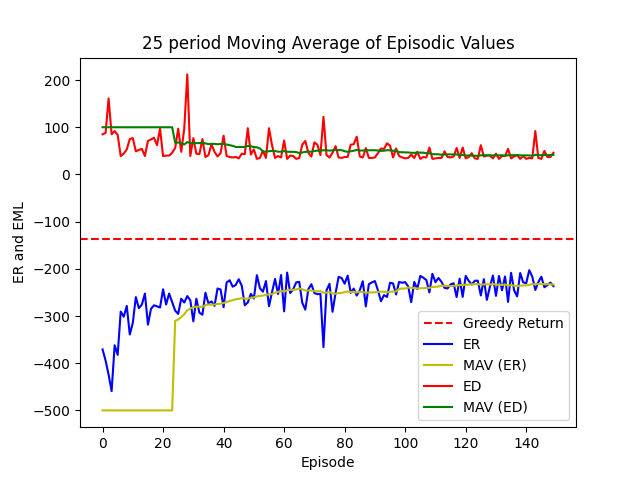
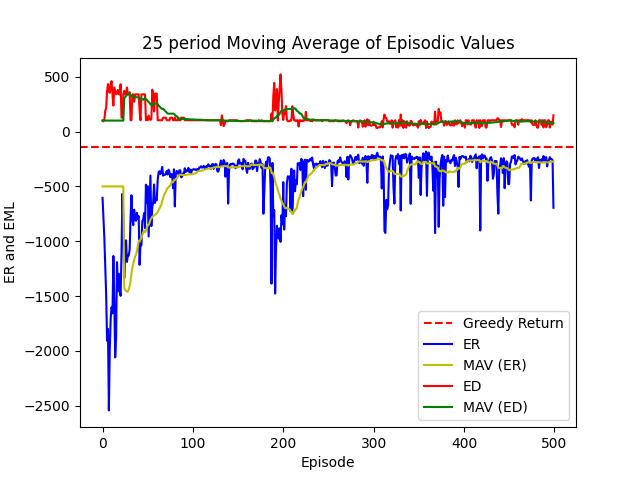
pausing decentralisation idea

diff --git a/onennrl.py b/onennrl.py
@@ -6,11 +6,13 @@ class DQN(nn.Module):
 
         self.fc1 = nn.Linear(in_features = INPUTS, out_features = FC1)
         self.fc2 = nn.Linear(in_features = FC1, out_features = FC2)
-        self.out = nn.Linear(in_features = FC2, out_features = OUTPUTS)
+        self.fc3 = nn.Linear(in_features = FC2, out_features = FC3)
+        self.out = nn.Linear(in_features = FC3, out_features = OUTPUTS)
 
     def forward(self, t):
         t = F.relu(self.fc1(t))
         t = F.relu(self.fc2(t))
+        t = F.relu(self.fc3(t))
         t = self.out(t)
         return t
 
@@ -275,23 +277,28 @@ class SumoManager():
             self.action = str(joint_action[tl].item())
             self.set_tl_state(tl)
             tl_record[tl] = self.action
-        self.get_state(elapsed_state = True) 
         self.action_record.append((self._step, tl_record))
+        self.get_state(elapsed_state = True) 
         for tl in joint_action:
             reward = self.compute_reward(tl)
             joint_reward[tl] = torch.tensor([reward], device = self.device)
         return joint_reward
 
     def compute_reward(self, tl):
-        n = int(tl[-1])
-        p = self.state[(n - 1)*self.tms:n*self.tms]
+        reward = 0
+        for Tl in self.TLIds:
+            n = int(Tl[-1])
+            p = self.state[(n - 1)*self.tms:n*self.tms]
+            if Tl == tl:
+                r = -0.3333*(abs(sum(p)))
+                reward += r
+            else:
+                r = -0.3333*(abs(sum(p)))
+                reward += r
+        return reward
         # wt = self.state[self.tms:]
         # wt = self.maxp*torch.tanh((wt/(self.maxwt/2) - 1))
-        if self._step < TRIGGER_WAITING_STEP:
-            return -1*(abs(sum(p)))
-        else:
-            return -1*(abs(sum(p))) - (TRIGGER_WAITING_STEP/10)
-        
+
     def parse_state_info(self):
         state_info = SumoTrafficState.get()
         pNwt_cat = []
@@ -372,7 +379,9 @@ if __name__ == "__main__":
     episodic_losses = []
     max_return = float("-Inf")
     min_loss = float("Inf")
+    all_time_low = False
     pm.print_time()
+
     for episode in range(NUM_EPISODES):
         print("EPISODE: ", episode)
         sm.reset()
@@ -406,7 +415,8 @@ if __name__ == "__main__":
                         max_return = return_val
                     if agent_step < min_loss:
                         pm.write_record(GRAPH_NAME + "_min_loss", sm.action_record)
-                        min_return = agent_step
+                        min_loss = agent_step
+                        all_time_low = True
                     print(f"RETURN for EPISODE {episode}:", return_val)
                     print(f"LOSS for EPISODE {episode}:", agent_step)
                     episode_returns.append(return_val)
@@ -414,13 +424,16 @@ if __name__ == "__main__":
                     if GRAPH_SHOW:
                         pm.plot_returns(episode_returns, episodic_losses, MAV_COUNT)
                     break 
-        if episode % TARGET_UPDATE == 0:
+        if episode % TARGET_UPDATE == 0 or (episode > GREEDY_TARGET_UPDATE and all_time_low):
             for tl in sm.TLIds:
+
                 target_net = target_nets[tl]
                 policy_net = policy_nets[tl]
                 target_net.load_state_dict(policy_net.state_dict())
     pm.print_time()
     if not GRAPH_SHOW:
         pm.plot_returns(episode_returns, episodic_losses, MAV_COUNT)
+    pm.write_record(GRAPH_NAME + "_returns", str(episode_returns))
+    pm.write_record(GRAPH_NAME + "_losses", str(episodic_losses))
     pm.save(GRAPH_NAME)
     sm.close()

diff --git a/utilities.py b/utilities.py
@@ -17,6 +17,15 @@ import matplotlib.pyplot as plt
 from collections import namedtuple
 from itertools import count
 
+#GOALS
+
+# Try Sequential Sampling
+# Add 3rd layer
+# Immediate Target update, when local minima is hit! --> DONE
+# Try Changing the reward weights --> DONE (0.6 & 0.2)
+# Write Data to file --> DONE
+# Implement yellow light
+
 #PROCESSING
 
 GPU = torch.device("cuda")
@@ -24,18 +33,20 @@ GPU = torch.device("cuda")
 #DQN_ARCHITECTURE      
 
 INPUTS = 36
-FC1 = 18
-FC2 = 18
+FC1 = 16
+FC2 = 16
+FC3 = 16
 OUTPUTS = 8
-GAMMA = 0.95
-ALPHA = 0.01
-TARGET_UPDATE = 8
+GAMMA = 0.99
+ALPHA = 0.001
+TARGET_UPDATE = 10
+GREEDY_TARGET_UPDATE = 50
 
 #MEMORY_MANAGER
 
-NUM_EPISODES = 150
-CAPACITY = 2000
-BATCH_SIZE = 350
+NUM_EPISODES = 180
+CAPACITY = 10000
+BATCH_SIZE = 400
 
 #REWARD_PARAMS
 
@@ -48,11 +59,11 @@ EPS_I = 1
 EPS_E = 0.001
 EPS_DECAY = 0.001
 ACTION_DELAY = 10 
-TRIGGER_WAITING_STEP = 100
+TRIGGER_WAITING_STEP = 200
 
 #PERFOMANCE_METER
 
-GRAPH_NAME = "imawss_trigger_dur_loss"
+GRAPH_NAME = "imawss_avg_p"
 GRAPH_SHOW = False
 MAV_COUNT = 25
 STARTING_RETURN = -500
